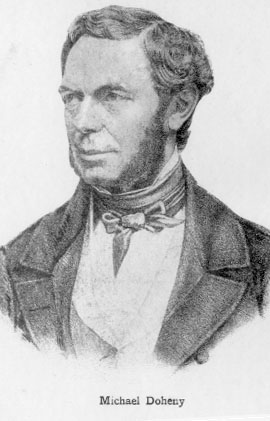
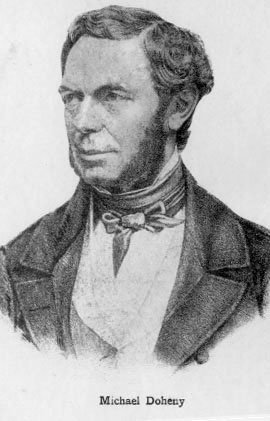
space %20 fixed pic up date

diff --git a/fenian2.htm b/fenian2.htm
@@ -19,7 +19,7 @@
 
 <table border="8" cellpadding="4" cellspacing="4">
     <tr>
-        <td><img src="WANTED%20POSTER.JPG" width="653"
+        <td><img src="WANTED POSTER.JPG" width="653"
         height="833"></td>
     </tr>
 </table>
